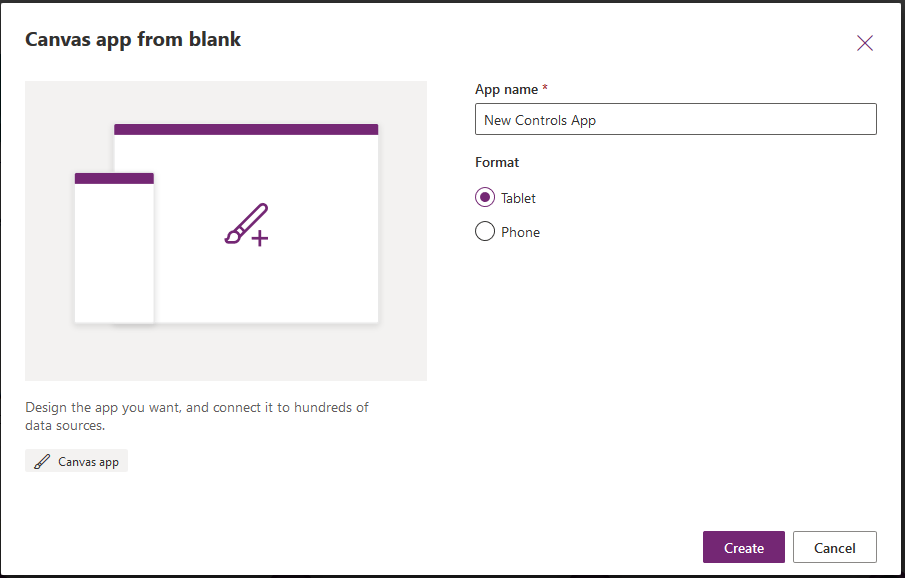
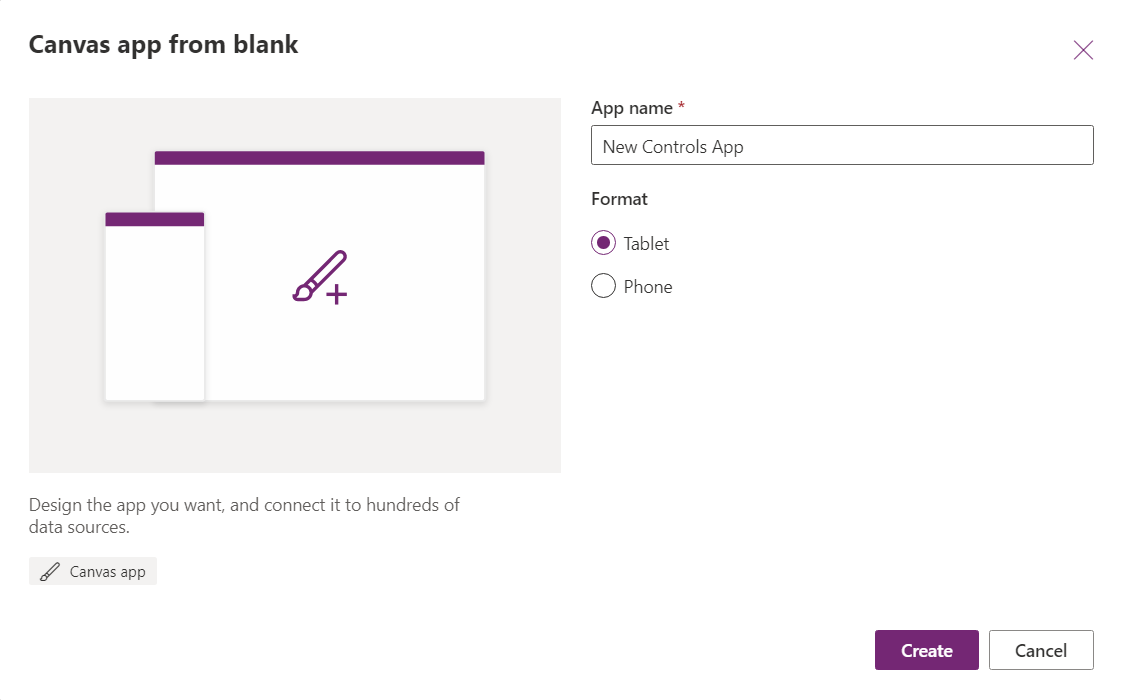
Updates to Use and understand Controls in a canvas app in Power Apps

diff --git a/learn-bizapps-pr/powerapps/controls-canvas-apps/includes/5a-exercise-app-with-controls.md b/learn-bizapps-pr/powerapps/controls-canvas-apps/includes/5a-exercise-app-with-controls.md
@@ -1,14 +1,17 @@
-### Creating the collection of data
+In this lab you will use multiple controls mentioned in the previous units to create a unit canvas app that will change as you interact with the controls. This will give you an idea of the capabilities of controls and how you can fit them to your needs.
 
-In this tutorial you will use multiple controls mentioned in the previous units to create a unit canvas app that will change as you interact with the controls. This will give you an idea of the capabilities of controls and how you can fit them to your needs.
+> [!NOTE]
+> Power Apps requires either an Office 365 license or a free trial. Learn more about your licensing options. [Microsoft products include Microsoft Power Apps and Power Automate.](/powerapps/administrator/pricing-billing-skus/?azure-portal=true)
+
+## Creating the collection of data
 
 1. Sign-in to [Power Apps](https://make.powerapps.com/?azure-portal=true). If using the virtual environment, skip to step 2.
 
-1. On the Home screen select **Canvas app from blank**
+1. On the Home screen select **Canvas app from blank**.
 
 	![Screenshot of the Canvas app from blank feature.](../media/exercise-1.png)
 
-1. Name your app **New UI App** and click **Create**.
+1. Name your app **New Controls App** and click **Create**.
 
 	![Screenshot of the new app named New UI App with Create button.](../media/exercise-2.png)
 
@@ -27,16 +30,10 @@ In this tutorial you will use multiple controls mentioned in the previous units 
 	Country:"Italy", Population:1344000})
 	```
 
-    To copy and paste the text in the  virtual environment, select the **Commands** button on the top left corner of the screen, select **Type text**, then select **Type clipboard text**. Paste the copied text in the window.
-    
-    ![Screenshot of commands button selected with the type text and type clipboard text highlighted.](../media/copy-instructions.png)
-
 1.  Press and hold **Alt Key**, and select the **Button** control. (This
     will create your collection and store all the information.).
 
 1.  Select the **Gallery** dropdown at the top and choose **Blank vertical** gallery and choose **CityPopulations** from the data source pop up.
-
-    ![Screenshot of the more options highlighted and gallery selected.](../media/gallery.png)
 
 1.  With the gallery selected, in the right pane, change the layout from
     blank to **Title, subtitle, and body**.
@@ -44,7 +41,7 @@ In this tutorial you will use multiple controls mentioned in the previous units 
 1.  Select the last or third Label in the first item of the gallery, and change the **Text** property to
     **ThisItem.Population**.
 
-	![Screenshot of Gallery menu items for the text property.](../media/text-property.png)
+	![Screenshot of Gallery menu items for the text property.](../media/gallery-image.png)
 
 1. Select the **Input** dropdown and choose **Slider**.
 
@@ -60,7 +57,7 @@ In this tutorial you will use multiple controls mentioned in the previous units 
 1. Change the **Visible** property of the check icon to:
 
 	```powerappsfl
-	If(ThisItem.Population > Slider1.Value, true, false)
+	ThisItem.Population > Slider1.Value
 	```
 	
 	![Screenshot of app screen with example data.](../media/exercise-3.png)

diff --git a/learn-bizapps-pr/powerapps/controls-canvas-apps/includes/4-additional-controls.md b/learn-bizapps-pr/powerapps/controls-canvas-apps/includes/4-additional-controls.md
@@ -63,6 +63,8 @@ Other available controls
     control appears or navigate to another screen after a certain amount
     of time has passed.
 
+-   **Date Picker** - A control that allows you to select a Date from a calendar.
+
 -   **Button** - Configure the **OnSelect** property of a button control to
     run one or more formulas when the user clicks or taps the control.
     The button control is frequently used to submit data to the data

diff --git a/learn-bizapps-pr/powerapps/controls-canvas-apps/includes/1-understand-controls.md b/learn-bizapps-pr/powerapps/controls-canvas-apps/includes/1-understand-controls.md
@@ -34,7 +34,7 @@ the app) and a barcode reader for quickly capturing identification
 information.
 
 **Charts** - These controls let you add charts so that users can do
-instant analysis.
+instant analysis. You can also add a Power BI Tile using this tab.
 
 **Icons** - These controls include shapes, graphics, and symbols to
 enhance the user interface. They are quickly recognizable by your users
